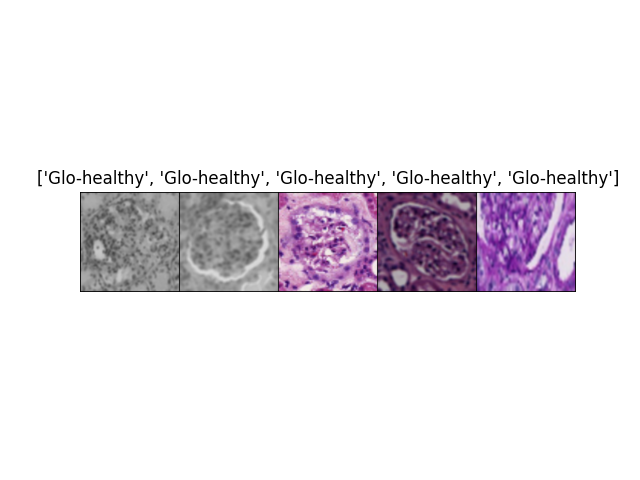
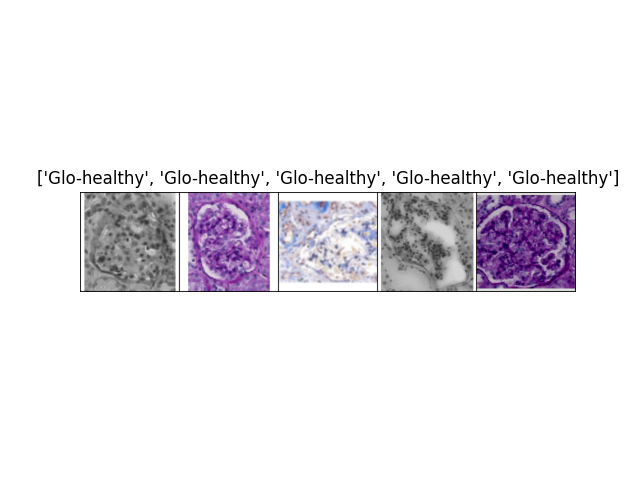
added pad resizing for cnn

Changed region(s): [[0.125, 0.375, 0.9062, 0.625]]

diff --git a/helical/cnn_assign_class_crop.py b/helical/cnn_assign_class_crop.py
@@ -25,6 +25,7 @@ class CropLabeller():
         self.tot_crops = glob(os.path.join(self.exp_data, 'crops', "*", '*.jpg'))
         self.map_classes = {v:k for v,k in map_classes.items() if k!='false_positives'} 
         self.resize = resize
+        self.resize_shape = (224,224)
         # self.false_pos_clss = map_classes['false_positives']
         return
     
@@ -89,6 +90,50 @@ class CropLabeller():
 
         return img_dims
     
+    def resize_with_pad(self, image_fp: np.array, new_shape: tuple,
+                        padding_color: tuple = (255, 255, 255)) -> np.array:
+        """Maintains aspect ratio and resizes with padding.
+        Params:
+            image: Image to be resized.
+            new_shape: Expected (width, height) of new image.
+            padding_color: Tuple in BGR of padding color
+        Returns:
+            image: Resized image with padding
+        """
+        
+        image = cv2.imread(image_fp, cv2.COLOR_BGR2RGB)
+        original_shape = (image.shape[1], image.shape[0])
+        ratio = float(max(new_shape))/max(original_shape)
+        new_size = tuple([int(x*ratio) for x in original_shape])
+        image = cv2.resize(image, new_size)
+        delta_w = new_shape[0] - new_size[0]
+        delta_h = new_shape[1] - new_size[1]
+        top, bottom = delta_h//2, delta_h-(delta_h//2)
+        left, right = delta_w//2, delta_w-(delta_w//2)
+        image = cv2.copyMakeBorder(image, top, bottom, left, right, cv2.BORDER_CONSTANT, value=padding_color)
+        cv2.imwrite(filename=image_fp, img=image)
+        # print(f"Saving img at {image_fp}")
+        # raise NotImplementedError()
+
+        return 
+    
+    def pad_all_images(self, new_shape: tuple, padding_color: tuple = (255, 255, 255)) -> np.array:
+        """ Pads all images into a new shape. """
+
+
+        assert os.path.isdir(self.root_data), f"root_data:{self.root_data} is not a valid dirpath."
+        all_images = glob(os.path.join(self.exp_data, 'crops', "*", "*.jpg"))
+        assert len(all_images)>0, f"No images like {os.path.join(self.exp_data, 'crops', '*', '*.jpg')} found in dataset."
+        all_images = list(filter(self.is_image_to_copy, all_images))
+
+        for img in tqdm(all_images, 'padding images'):
+            # if self.is_image_to_copy(crop_fp=img):
+            self.resize_with_pad(image_fp=img, new_shape=new_shape, padding_color=padding_color)
+        
+
+
+        return
+    
 
     def move_assigned_crops(self) -> None: 
         """ Copies crops into a folder which represent the true class for those crops. """
@@ -106,10 +151,22 @@ class CropLabeller():
             old = crop_fp
             # fold_map
             new = os.path.join(self.exp_data, 'crops_true_classes', map_class2fold_map[crop_clss], os.path.basename(crop_fp))
-            if not os.path.isfile(new):
-                shutil.copy(src = old, dst = new)
+            if self.is_image_to_copy(crop_fp=crop_fp):
+                if not os.path.isfile(new):
+                    shutil.copy(src = old, dst = new)
         
         return
+    
+    def is_image_to_copy(self, crop_fp:str)->bool: 
+        """ Returns True if image is to copy. If e.g. image is a small crop, it is not to be copied. """
+        
+        is_to_copy = True
+        crop = cv2.imread(crop_fp, cv2.COLOR_BGR2RGB)
+        w, h = crop.shape[0], crop.shape[1]
+        if w < h*0.7 or h < w*0.7:
+            is_to_copy = False
+
+        return is_to_copy
     
 
     def resize_images(self) -> None:
@@ -120,9 +177,10 @@ class CropLabeller():
         for img_fp in tqdm(tot_moved_images, 'resizing'): 
             image = cv2.imread(img_fp, cv2.COLOR_BGR2RGB)
             try:
-                image = cv2.resize(image, dsize=(224, 224))
+                image = cv2.resize(image, dsize=self.resize_shape)
             except:
                 raise Exception(f"Couldn't resize {os.path.basename(img_fp)}")
+                continue
             cv2.imwrite(img_fp, image)
 
         return
@@ -130,6 +188,7 @@ class CropLabeller():
 
     def assign_all_labels(self) -> None:
         """ Assign a class to all crops and saving the mapping into the self.crop_class_dict"""
+
         if len(self.tot_pred_labels)==0:
             print(f"'tot_pred_labels' = glob({os.path.join(self.exp_data, 'labels', '*.txt')}) is empty.")
         tot_true_labels = {}
@@ -254,6 +313,7 @@ class CropLabeller():
             and resizes images to match the CNN input. """
         
         self._parse()
+        self.pad_all_images(new_shape=self.resize_shape)
         self.assign_all_labels()
         self.move_assigned_crops()
         if self.resize: 

diff --git a/helical/cnn_train_func.py b/helical/cnn_train_func.py
@@ -68,14 +68,14 @@ def prepare_data(cnn_root_fold:str, map_classes:dict, batch:int, num_workers:int
     # return  dataloader
 
 
-def train_model(model, dataloader_cls, dataloaders, 
+def train_model(model, dataloader_cls, dataloaders, device,
                 criterion, optimizer, scheduler, num_epochs=10):
     since = time.time()
     best_model_wts = copy.deepcopy(model.state_dict())
     best_acc = 0.0
     # device = 'cuda:0' if torch.cuda.is_available() else 'cpu'
-    device = 'mps'
-    device = print(f"Device: {device}")
+    # device = 'mps'
+    # device = print(f"Device: {device}")
     
     avg_loss = 0
     avg_acc = 0
@@ -84,10 +84,7 @@ def train_model(model, dataloader_cls, dataloaders,
     
     model.to(device)
     print(f"Model is on '{next(model.parameters()).device}'")
-    model = model.to(device)
-    print(f"Model is on '{next(model.parameters()).device}'")
     criterion = criterion.to(device)
-    # print(f"Criterion is on '{criterion.device}'")
     train_batches = len(dataloaders['train'])
     val_batches = len(dataloaders['val'])
     
@@ -111,28 +108,19 @@ def train_model(model, dataloader_cls, dataloaders,
             #     break
             inputs, labels = data
             t_batch = labels.shape[0]
-            inputs, labels = inputs.to(device), labels.to(device)
+            inputs = inputs.to(device)
+            labels =  labels.to(device)
+
+            # print(inputs.type())
+            # print(labels.type())
             
             
             optimizer.zero_grad()
             
             outputs = model(inputs)
-            # print(f"ouput data: {outputs.data.shape}")
-            # print(outputs.data)
-            # print(f"preds: {torch.max(outputs.data, 1, keepdim=True)}")
-            
             _, preds = torch.max(outputs.data, 1, keepdim=True)
             _, true_classes = torch.max(labels.data, 1, keepdim=True)
 
-            # print(f"\nlabels:{labels}")
-            # print(f"\nouputs:{outputs.data}")
-            # print(f"\npreds:{preds}")
-            # print(f"\ntrue classes:{true_classes}")
-
-            # raise NotImplementedError()
-            # print(f"\noutputs shape: {outputs.shape}")
-            # print(f"labels shape: {labels.data.shape}")
-            # print(f"labels shape: {labels.data.argmax(dim=1).shape}")
             loss = criterion(outputs, labels.data)
             
             loss.backward()
@@ -166,8 +154,8 @@ def train_model(model, dataloader_cls, dataloaders,
             v_batch = labels.shape[0]
             optimizer.zero_grad()
             
+            # raise NotImplementedError()
             outputs = model(inputs)
-            
             _, preds = torch.max(outputs.data, 1, keepdim=True)
             # print(f"\noutputs shape: {outputs.shape}")
             # print(f"labels shape: {labels.data.shape}")
@@ -224,7 +212,7 @@ def eval_model(model, dataloader_cls, dataloaders, criterion):
         v_batch = labels.shape[0]
 
         # inputs, labels = data
-        inputs.to(device), labels.to(device)
+        inputs, labels = inputs.to(device), labels.to(device)
 
         outputs = model(inputs)
         # print(f"\noutputs shape: {outputs.shape}")
@@ -238,7 +226,7 @@ def eval_model(model, dataloader_cls, dataloaders, criterion):
 
         del inputs, labels, outputs, preds
         torch.cuda.empty_cache()
-    print(dataloader_cls.valset_size)
+    # print(dataloader_cls.valset_size)
     avg_loss = loss_test / dataloader_cls.valset_size
     avg_acc = acc_test / dataloader_cls.valset_size
     

diff --git a/helical/cnn_trainer.py b/helical/cnn_trainer.py
@@ -30,9 +30,9 @@ dataset = PARAMS['dataset']
 task = PARAMS['task']
 resize_crops = PARAMS['resize_crops']
 treat_as_single_class = PARAMS['treat_as_single_class']
-# device='mps' 
-device='cuda:0' if torch.cuda.is_available() else 'cpu'
-print(f"Device: {device}")
+device = PARAMS['device']
+gpu = 'cuda:0' if torch.cuda.is_available() else 'cpu'
+device = device if device == 'mps' else gpu
 now = datetime.now()
 dt_string = now.strftime("%Y_%m_%d__%H_%M_%S")
 weights_save_fold = cnn_exp_fold +f"_{dt_string}"
@@ -81,7 +81,7 @@ print("-"*10)
 criterion = nn.BCEWithLogitsLoss()
 optimizer_ft = torch.optim.SGD(vgg16.parameters(), lr=lr, momentum=0.9)
 exp_lr_scheduler = torch.optim.lr_scheduler.StepLR(optimizer_ft, step_size=7, gamma=0.1)
-vgg16 = train_model(model=vgg16, dataloader_cls=dataloader_cls, dataloaders=dataloaders, 
+vgg16 = train_model(model=vgg16, dataloader_cls=dataloader_cls, dataloaders=dataloaders, device=device,
                     criterion=criterion, optimizer=optimizer_ft, scheduler=exp_lr_scheduler, num_epochs=epochs)
 os.makedirs(weights_save_fold)
 torch.save(vgg16.state_dict(), os.path.join(weights_save_fold, 'VGG16_v2-OCT_Retina_half_dataset.pt'))

diff --git a/helical/cnn_dataset.py b/helical/cnn_dataset.py
@@ -77,6 +77,7 @@ class CNNDataset(Dataset):
         img_fp = self.image_list[idx] 
         img = io.imread(img_fp)
         image = self.transform(image=img)['image']
+        image = image.float()
         image = image / 255
         # print(f"max: {image.max()}, min: {image.min()}")
 
@@ -89,6 +90,9 @@ class CNNDataset(Dataset):
         # TODO TRANSFORM THIS IN TORCH
 
         # print(f"image size: {image.shape}, label size: {label.shape}")
+        assert isinstance(image, torch.Tensor), f"{type(image)}"
+        assert isinstance(label, torch.Tensor), f"{type(label)}"
+
 
         return image, label
     
